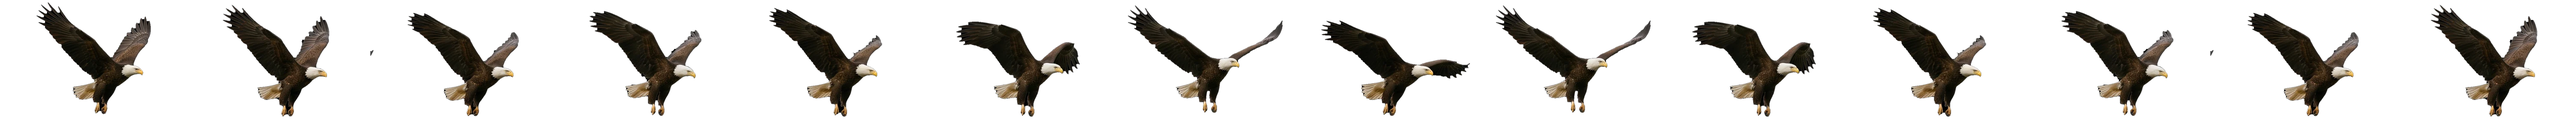
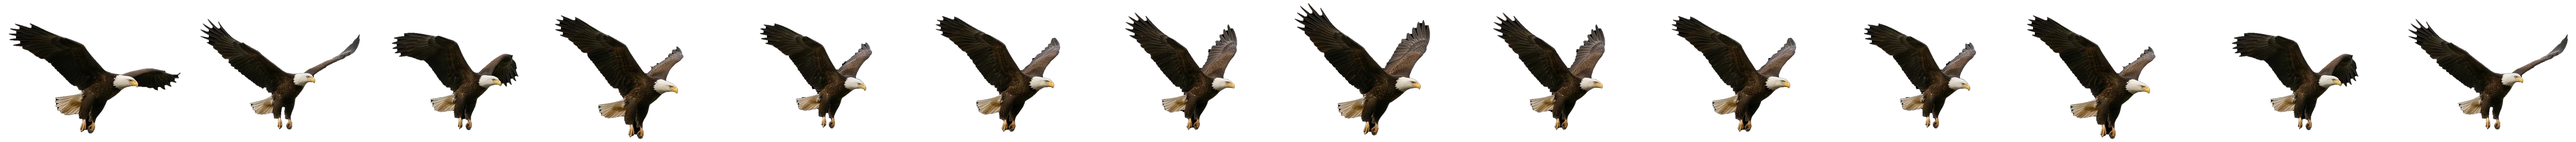
Eagles soar and flap in bursts, aligned on the head
Three fixes to the wing-beat.

Wings stay out most of the time. A constant loop reads as a replay, and real
eagles soar far more than they flap. Frame 0 of the strip is now the soaring
pose and a small rAF driver holds it for 3.4-7.0s, then runs 1-3 beats, then
holds again -- roughly 80% wings-extended, with randomised intervals per bird so
they never sync up or look like a cycle. Nothing is painted while soaring.

Head and body no longer move disproportionately. Frames had been pinned by the
beak, which let the head pivot and the body swing around it: head centroids
drifted 50x58px between frames and apparent head size varied 27%, because the
source frames are at different distances. Alignment now uses the head centroid
and normalises scale by head diameter. Measured after: 13x9px of head drift and
9% size spread.

Stray JPEG-noise specks are dropped by keeping only the blob containing the
brightest pixel (the white head), which also tightened the canvas from 702px to
606px wide.

The CSS animations are gone; JS sets --f0/--f1/--mix and the two stacked layers
still cross-dissolve. Reduced-motion gets a still, soaring bird.

Claude-Session: https://claude.ai/code/session_018vEk8dkVrGCfuSfVrVTN2x

Changed region(s): [[0.0, 0.0573, 0.9993, 0.9749], [0.9681, 0.9176, 0.9993, 0.9462]]

diff --git a/index.html b/index.html
@@ -99,24 +99,16 @@ a{color:inherit}
 .sky{position:absolute;inset:0;z-index:4;pointer-events:none;overflow:hidden}
 .eagle{position:absolute;left:0;will-change:transform}
 
-/* Wing-beat: a 14-frame sprite strip stepped with background-position
-   (jump-none lands on all 14, including the last).
-   Two stacked layers run the same steps one frame apart, and the top one fades
-   in across each frame slot -- so frames cross-dissolve instead of snapping. */
-.flap{position:relative;width:100%;aspect-ratio:430 / 279;--beat:1s}
+/* Wing-beat: a 14-frame sprite strip. Frame 0 is the soaring pose and the bird
+   holds it most of the time, flapping only in short bursts -- see the script.
+   Two stacked layers sit one frame apart and --mix dissolves between them, so
+   the beat blends rather than snaps. JS drives --f0 / --f1 / --mix. */
+.flap{position:relative;width:100%;aspect-ratio:430 / 333;--f0:0%;--f1:0%;--mix:0}
 .flap::before,.flap::after{content:"";position:absolute;inset:0;
   background-image:url(/assets/eagle-fly.webp);
-  background-size:auto 100%;background-repeat:no-repeat;background-position:0 0;
-  animation:flapstep var(--beat) steps(14,jump-none) infinite}
-.flap::after{
-  animation:flapstep var(--beat) steps(14,jump-none) infinite,
-            flapfade calc(var(--beat) / 14) linear infinite;
-  animation-delay:calc(var(--beat) / -14), 0s}
-@keyframes flapstep{from{background-position-x:0%}to{background-position-x:100%}}
-@keyframes flapfade{from{opacity:0}to{opacity:1}}
-.eagle--a .flap{--beat:1.05s}
-.eagle--b .flap{--beat:.86s}
-.eagle--c .flap{--beat:.72s}
+  background-size:auto 100%;background-repeat:no-repeat;background-position-y:0}
+.flap::before{background-position-x:var(--f0)}
+.flap::after{background-position-x:var(--f1);opacity:var(--mix)}
 .eagle--a{width:clamp(200px,29vw,500px);top:5%;animation:glideA 24s linear infinite}
 .eagle--b{width:clamp(130px,17vw,290px);top:15%;opacity:.95;animation:glideB 32s linear infinite 5s}
 .eagle--c{width:clamp(90px,11vw,185px);top:9%;opacity:.85;animation:glideC 40s linear infinite 13s}
@@ -203,7 +195,7 @@ a{color:inherit}
 .band__p{margin:18px 0 0;color:#D8CEC3;text-shadow:0 2px 14px rgba(18,14,12,.95)}
 .band__eagle{position:absolute;right:2%;top:50%;z-index:4;width:clamp(180px,32vw,560px);
   transform:translateY(-50%);pointer-events:none}
-.band__eagle .flap{--beat:1.25s}
+
 @media(max-width:820px){
   .band__eagle{right:-6%;top:auto;bottom:-4%;transform:none;width:min(62%,320px);opacity:.85}
   .band__in{max-width:none}
@@ -261,7 +253,7 @@ a{color:inherit}
   background:radial-gradient(62% 70% at 50% 45%,rgba(18,14,12,.62),rgba(18,14,12,.93) 78%)}
 .ride__in{position:relative;z-index:6}
 .ride__eagle{width:clamp(190px,26vw,420px);margin:0 auto clamp(10px,2vw,26px)}
-.ride__eagle .flap{--beat:1.15s}
+
 .ride__h{margin:14px auto 0;font-family:var(--display);font-stretch:125%;font-weight:900;
   text-transform:uppercase;font-size:clamp(2.4rem,9vw,6.4rem);line-height:.86;letter-spacing:-.035em;max-width:16ch;
   text-shadow:0 8px 40px rgba(18,14,12,.9)}
@@ -295,7 +287,6 @@ a{color:inherit}
   .js .rise{opacity:1;transform:none}
   .eagle--a{transform:translate(58vw,-4vh)}
   .eagle--b,.eagle--c{display:none}
-  .flap::before,.flap::after{animation:none;background-position-x:15.38%}
   .flap::after{opacity:0}
 }
 </style>
@@ -503,6 +494,75 @@ a{color:inherit}
 <script>
 (function(){
   var reduce = window.matchMedia('(prefers-reduced-motion: reduce)').matches;
+
+  /* ---------- eagles: soar, then flap in bursts ---------- */
+  (function(){
+    var flaps = Array.prototype.slice.call(document.querySelectorAll('.flap'));
+    if(!flaps.length) return;
+
+    var N = 14;                      /* frames in the strip; frame 0 is the soar pose */
+    var STEP = 100 / (N - 1);        /* background-position-x per frame, in %        */
+
+    function paint(el, f0, f1, mix){
+      el.style.setProperty('--f0', (f0 * STEP).toFixed(3) + '%');
+      el.style.setProperty('--f1', (f1 * STEP).toFixed(3) + '%');
+      el.style.setProperty('--mix', mix.toFixed(3));
+    }
+
+    /* reduced motion: a still, soaring bird */
+    if(reduce){ flaps.forEach(function(el){ paint(el, 0, 0, 0); }); return; }
+
+    var birds = flaps.map(function(el, i){
+      return {
+        el: el,
+        beat: 580 + i * 55 + Math.random() * 120,   /* ms per wing-beat */
+        soaring: true,
+        until: 900 + Math.random() * 2600,          /* stagger the first burst */
+        left: 0,
+        t: 0
+      };
+    });
+    birds.forEach(function(b){ paint(b.el, 0, 0, 0); });
+
+    var last = null;
+    function tick(now){
+      if(last === null) last = now;
+      var dt = Math.min(now - last, 100);           /* ignore tab-switch gaps */
+      last = now;
+
+      for(var i = 0; i < birds.length; i++){
+        var b = birds[i];
+        b.t += dt;
+
+        if(b.soaring){
+          if(b.t >= b.until){                       /* break into a burst */
+            b.soaring = false;
+            b.t = 0;
+            b.left = 1 + (Math.random() * 3 | 0);   /* 1-3 beats */
+          }
+          continue;                                 /* held on frame 0, nothing to paint */
+        }
+
+        var p = b.t / b.beat;
+        if(p >= 1){
+          b.t -= b.beat;
+          p = b.t / b.beat;
+          if(--b.left <= 0){                        /* back to soaring */
+            b.soaring = true;
+            b.t = 0;
+            b.until = 3400 + Math.random() * 3600;  /* ~80% of the time, wings out */
+            paint(b.el, 0, 0, 0);
+            continue;
+          }
+        }
+        var f = p * N;
+        var k = f | 0;
+        paint(b.el, k % N, (k + 1) % N, f - k);
+      }
+      requestAnimationFrame(tick);
+    }
+    requestAnimationFrame(tick);
+  })();
 
   /* ---------- fireworks ---------- */
   var COLORS = ['#FF5A1F','#FFC23D','#F2EBE1','#E0333B','#5A8CF0','#2BE06A'];
